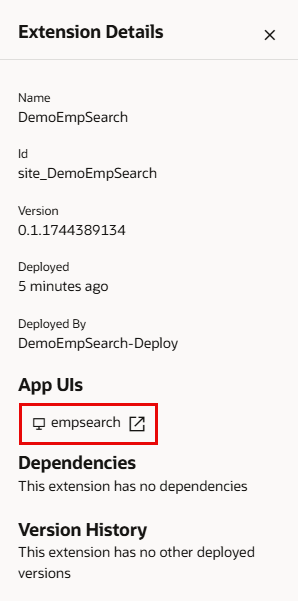
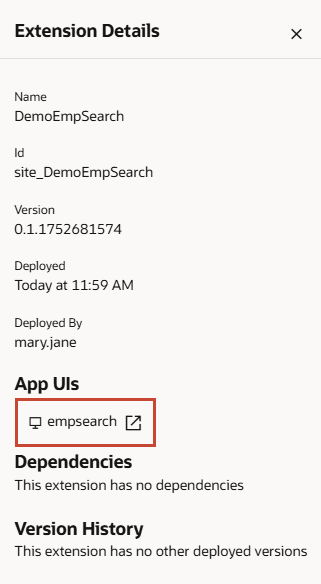
25.10

diff --git a/visual-builder/studio/extend-apps/publish/publish.md b/visual-builder/studio/extend-apps/publish/publish.md
@@ -57,6 +57,16 @@ Access your environment's Oracle Cloud Applications instance to view your change
 
     You can now view your App UI deployed to the environment's Oracle Cloud Applications instance.
 
+3. To manage the deployed extension, click ![Go to project page icon](images/icon-gotoprojectpage.png) in the header, select ![Environments icon](images/icon-environments.png) **Environments**, then click **Extension Lifecycle**. Expand the **DEV** environment, then click ![Extension Details icon](images/manageextensionlifecycle-details-icon.png) to view extension details and access your App UI.
+
+    ![This image shows the Environments tab. The DEV environment is selected and the Deployments tab is shown. In the Applications Extensions section, DemoEmpSearch is highlighted and expanded and empsearch is highlighted in the App UIs column.](images/deployment.png)
+
+    You can also deploy your extension to other environments or delete the extension.
+
+    <!-- Now click ![Open icon](images/icon-openappui.png) next to **empsearch** to open your App UI in a new browser tab.
+
+    ![This image shows the Extension Details pane with details such as extension name, ID, version, App UIs, Dependencies, and Version History. The empsearch App UI is highlighted.](images/deployment-appui.png) -->
+
 <!-- You may now **proceed to the next lab**. -->
 
 ## Acknowledgements
